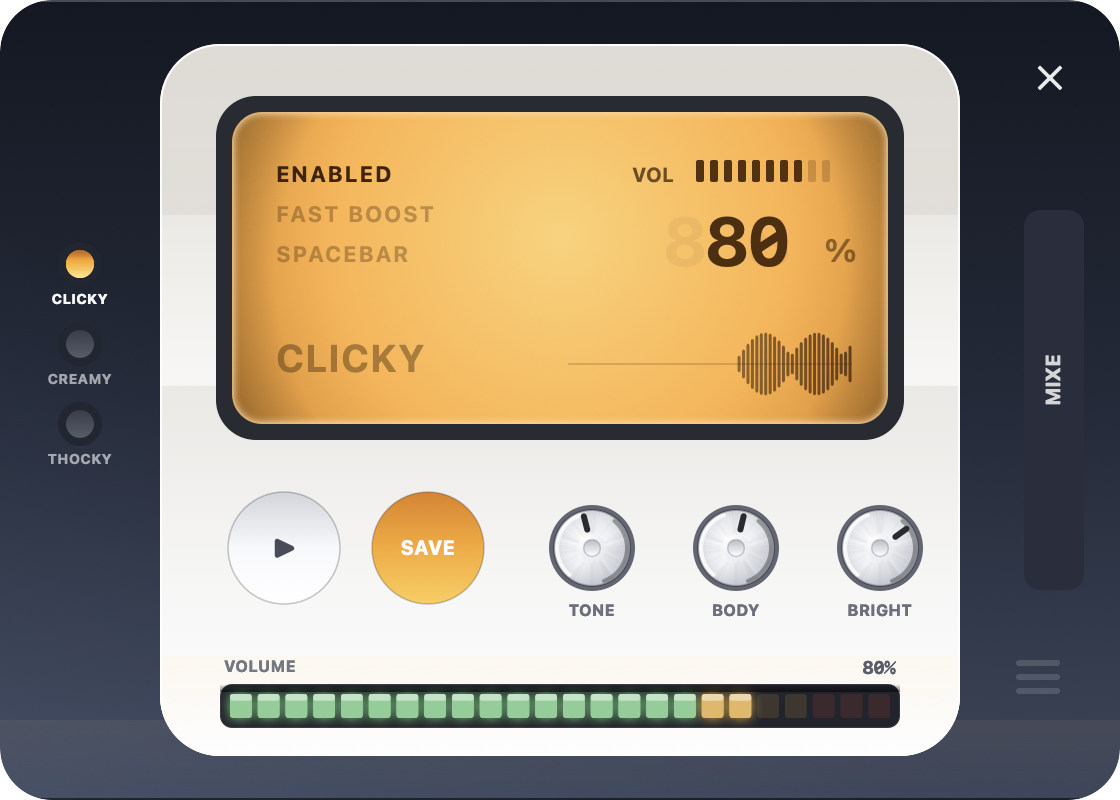
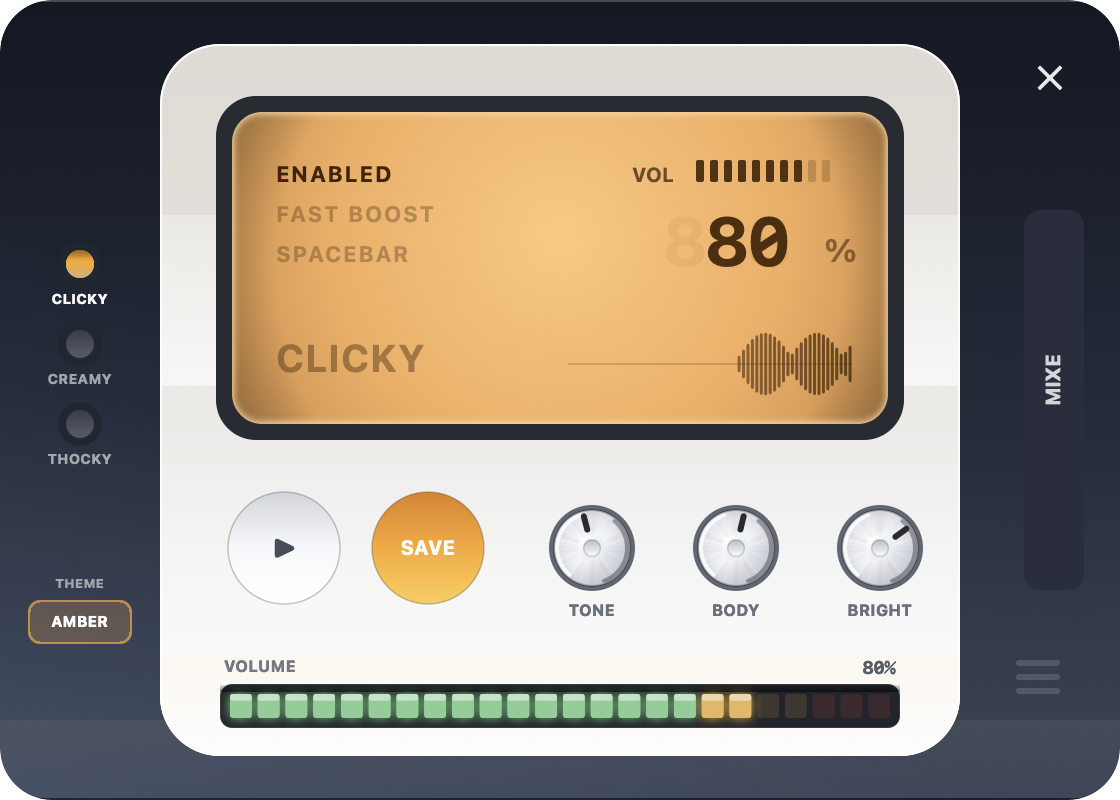
Add theme system and idle motion
Four full colour schemes — AMBER, ICE, PHOSPHOR, SYNTH — selectable from a
button on the chassis. A theme carries every tinted surface (backlight,
bezel light-leak, LED lamps, accent buttons, meter ramp, and the chassis
temperature itself), so switching restyles the whole instrument rather
than recolouring one element.

Idle motion via a single shared 30fps clock, so elements stay in phase:
- a soft band sweeping down the display, the cue that reads as 'powered on'
- a slow breath on the lit LED's glow radius and intensity
- the level meter already twitches per keystroke

The clock only runs while the panel is visible — a menu-bar app shouldn't
hold a 30fps timer open all day for a window nobody is looking at.

Theme swaps touch colours baked into cached bitmaps and layer-backed
views, so restyleForTheme walks the tree explicitly; invalidating only the
root would leave stale subviews behind.

KLACK_THEME=<name> selects a theme for headless renders, which is how all
four were verified.

Changed region(s): [[0.0, 0.7188, 0.125, 0.8125], [0.0625, 0.3125, 0.0938, 0.3438]]

diff --git a/Sources/Klack/PlasticSkinViews.swift b/Sources/Klack/PlasticSkinViews.swift
@@ -3,6 +3,137 @@ import Cocoa
 // V2 skin: dark chassis + glossy white plastic plate + backlit amber display.
 // All views are `isFlipped` so coordinates match the Figma reference directly.
 
+/// A full colour scheme for the panel. Everything tinted — backlight, LEDs,
+/// accents, meter ramp, even the chassis temperature — comes from here, so
+/// switching themes restyles the whole instrument rather than recolouring
+/// one element.
+struct Theme {
+    let name: String
+    let displayCore: NSColor
+    let displayMid: NSColor
+    let displayEdge: NSColor
+    let displayInk: NSColor
+    let bezelLeak: NSColor
+    let accentTop: NSColor
+    let accentMid: NSColor
+    let accentBottom: NSColor
+    let lampLit: NSColor
+    let chassisTop: NSColor
+    let chassisMid: NSColor
+    let chassisBottom: NSColor
+    /// Low → mid → hot stops for the level meter ladder.
+    let meterRamp: (NSColor, NSColor, NSColor)
+
+    static let amber = Theme(
+        name: "AMBER",
+        displayCore: NSColor(srgbRed: 1.00, green: 0.72, blue: 0.30, alpha: 1),
+        displayMid: NSColor(srgbRed: 0.94, green: 0.60, blue: 0.17, alpha: 1),
+        displayEdge: NSColor(srgbRed: 0.50, green: 0.26, blue: 0.05, alpha: 1),
+        displayInk: NSColor(srgbRed: 0.26, green: 0.13, blue: 0.01, alpha: 1),
+        bezelLeak: NSColor(srgbRed: 1.00, green: 0.85, blue: 0.63, alpha: 1),
+        accentTop: NSColor(srgbRed: 1.00, green: 0.80, blue: 0.32, alpha: 1),
+        accentMid: NSColor(srgbRed: 0.98, green: 0.66, blue: 0.16, alpha: 1),
+        accentBottom: NSColor(srgbRed: 0.88, green: 0.50, blue: 0.08, alpha: 1),
+        lampLit: NSColor(srgbRed: 0.99, green: 0.66, blue: 0.13, alpha: 1),
+        chassisTop: NSColor(srgbRed: 0.23, green: 0.27, blue: 0.35, alpha: 1),
+        chassisMid: NSColor(srgbRed: 0.13, green: 0.16, blue: 0.22, alpha: 1),
+        chassisBottom: NSColor(srgbRed: 0.07, green: 0.09, blue: 0.13, alpha: 1),
+        meterRamp: (NSColor(srgbRed: 0.42, green: 0.86, blue: 0.52, alpha: 1),
+                    NSColor(srgbRed: 0.99, green: 0.72, blue: 0.15, alpha: 1),
+                    NSColor(srgbRed: 0.95, green: 0.26, blue: 0.20, alpha: 1))
+    )
+
+    static let cyan = Theme(
+        name: "ICE",
+        displayCore: NSColor(srgbRed: 0.62, green: 0.94, blue: 1.00, alpha: 1),
+        displayMid: NSColor(srgbRed: 0.24, green: 0.72, blue: 0.90, alpha: 1),
+        displayEdge: NSColor(srgbRed: 0.03, green: 0.24, blue: 0.38, alpha: 1),
+        displayInk: NSColor(srgbRed: 0.02, green: 0.13, blue: 0.20, alpha: 1),
+        bezelLeak: NSColor(srgbRed: 0.72, green: 0.95, blue: 1.00, alpha: 1),
+        accentTop: NSColor(srgbRed: 0.48, green: 0.88, blue: 1.00, alpha: 1),
+        accentMid: NSColor(srgbRed: 0.16, green: 0.68, blue: 0.90, alpha: 1),
+        accentBottom: NSColor(srgbRed: 0.05, green: 0.46, blue: 0.68, alpha: 1),
+        lampLit: NSColor(srgbRed: 0.30, green: 0.80, blue: 1.00, alpha: 1),
+        chassisTop: NSColor(srgbRed: 0.20, green: 0.26, blue: 0.34, alpha: 1),
+        chassisMid: NSColor(srgbRed: 0.10, green: 0.15, blue: 0.21, alpha: 1),
+        chassisBottom: NSColor(srgbRed: 0.05, green: 0.08, blue: 0.12, alpha: 1),
+        meterRamp: (NSColor(srgbRed: 0.30, green: 0.78, blue: 0.98, alpha: 1),
+                    NSColor(srgbRed: 0.55, green: 0.92, blue: 1.00, alpha: 1),
+                    NSColor(srgbRed: 0.95, green: 0.98, blue: 1.00, alpha: 1))
+    )
+
+    static let phosphor = Theme(
+        name: "PHOSPHOR",
+        displayCore: NSColor(srgbRed: 0.62, green: 1.00, blue: 0.55, alpha: 1),
+        displayMid: NSColor(srgbRed: 0.28, green: 0.76, blue: 0.28, alpha: 1),
+        displayEdge: NSColor(srgbRed: 0.03, green: 0.22, blue: 0.06, alpha: 1),
+        displayInk: NSColor(srgbRed: 0.02, green: 0.14, blue: 0.03, alpha: 1),
+        bezelLeak: NSColor(srgbRed: 0.75, green: 1.00, blue: 0.70, alpha: 1),
+        accentTop: NSColor(srgbRed: 0.62, green: 0.98, blue: 0.52, alpha: 1),
+        accentMid: NSColor(srgbRed: 0.32, green: 0.80, blue: 0.30, alpha: 1),
+        accentBottom: NSColor(srgbRed: 0.16, green: 0.56, blue: 0.18, alpha: 1),
+        lampLit: NSColor(srgbRed: 0.44, green: 0.95, blue: 0.40, alpha: 1),
+        chassisTop: NSColor(srgbRed: 0.19, green: 0.24, blue: 0.21, alpha: 1),
+        chassisMid: NSColor(srgbRed: 0.10, green: 0.14, blue: 0.11, alpha: 1),
+        chassisBottom: NSColor(srgbRed: 0.05, green: 0.08, blue: 0.06, alpha: 1),
+        meterRamp: (NSColor(srgbRed: 0.34, green: 0.82, blue: 0.34, alpha: 1),
+                    NSColor(srgbRed: 0.62, green: 1.00, blue: 0.48, alpha: 1),
+                    NSColor(srgbRed: 0.92, green: 1.00, blue: 0.55, alpha: 1))
+    )
+
+    static let synthwave = Theme(
+        name: "SYNTH",
+        displayCore: NSColor(srgbRed: 1.00, green: 0.62, blue: 0.92, alpha: 1),
+        displayMid: NSColor(srgbRed: 0.82, green: 0.24, blue: 0.68, alpha: 1),
+        displayEdge: NSColor(srgbRed: 0.26, green: 0.04, blue: 0.30, alpha: 1),
+        displayInk: NSColor(srgbRed: 0.18, green: 0.02, blue: 0.20, alpha: 1),
+        bezelLeak: NSColor(srgbRed: 1.00, green: 0.72, blue: 0.95, alpha: 1),
+        accentTop: NSColor(srgbRed: 1.00, green: 0.55, blue: 0.85, alpha: 1),
+        accentMid: NSColor(srgbRed: 0.88, green: 0.24, blue: 0.66, alpha: 1),
+        accentBottom: NSColor(srgbRed: 0.58, green: 0.12, blue: 0.52, alpha: 1),
+        lampLit: NSColor(srgbRed: 1.00, green: 0.38, blue: 0.80, alpha: 1),
+        chassisTop: NSColor(srgbRed: 0.24, green: 0.20, blue: 0.36, alpha: 1),
+        chassisMid: NSColor(srgbRed: 0.13, green: 0.10, blue: 0.22, alpha: 1),
+        chassisBottom: NSColor(srgbRed: 0.07, green: 0.05, blue: 0.13, alpha: 1),
+        meterRamp: (NSColor(srgbRed: 0.42, green: 0.55, blue: 1.00, alpha: 1),
+                    NSColor(srgbRed: 0.85, green: 0.35, blue: 0.95, alpha: 1),
+                    NSColor(srgbRed: 1.00, green: 0.30, blue: 0.55, alpha: 1))
+    )
+
+    static let all: [Theme] = [.amber, .cyan, .phosphor, .synthwave]
+
+    /// Read by every view at draw time. Changing it and invalidating the view
+    /// tree restyles the whole panel.
+    static var current: Theme = .amber
+}
+
+/// Drives idle motion — a slow scanline sweep and a breathing pulse — so the
+/// panel reads as powered-on rather than as a static picture. One shared
+/// clock keeps every element in phase, and it only runs while visible.
+final class MotionClock {
+    static let shared = MotionClock()
+    private var timer: Timer?
+    private var subscribers: [() -> Void] = []
+    private(set) var phase: CGFloat = 0
+
+    func subscribe(_ block: @escaping () -> Void) { subscribers.append(block) }
+
+    func start() {
+        guard timer == nil else { return }
+        timer = Timer.scheduledTimer(withTimeInterval: 1.0 / 30.0, repeats: true) { [weak self] _ in
+            guard let self else { return }
+            self.phase += 1.0 / 30.0
+            for s in self.subscribers { s() }
+        }
+        if let t = timer { RunLoop.main.add(t, forMode: .common) }
+    }
+
+    func stop() {
+        timer?.invalidate()
+        timer = nil
+    }
+}
+
 enum Plastic {
     // White plastic is never neutral grey — the body runs cool at the
     // highlight and warm in shadow, which is what separates moulded plastic
@@ -77,7 +208,8 @@ final class ChassisView: NSView {
 
     override func draw(_ dirtyRect: NSRect) {
         let path = NSBezierPath(roundedRect: bounds, xRadius: 26, yRadius: 26)
-        Plastic.gradient([(0, Plastic.chassisTop), (0.5, Plastic.chassisMid), (1, Plastic.chassisBottom)])?
+        let th = Theme.current
+        Plastic.gradient([(0, th.chassisTop), (0.5, th.chassisMid), (1, th.chassisBottom)])?
             .draw(in: path, angle: -90)
 
         NSGraphicsContext.saveGraphicsState()
@@ -250,11 +382,15 @@ final class BacklitDisplayView: NSView {
         let b = min(0.18, backlightBoost)
         let centre = NSPoint(x: bounds.midX, y: bounds.height * 0.40)
         let radius = max(bounds.width, bounds.height) * 0.78
+        let th = Theme.current
+        func lift(_ c: NSColor, _ amount: CGFloat) -> NSColor {
+            c.blended(withFraction: amount, of: .white) ?? c
+        }
         Plastic.gradient([
-            (0.00, NSColor(srgbRed: min(1, 1.0 + b), green: min(1, 0.72 + b), blue: min(1, 0.30 + b * 1.4), alpha: 1)),
-            (0.45, NSColor(srgbRed: min(1, 0.94 + b), green: min(1, 0.60 + b), blue: min(1, 0.17 + b), alpha: 1)),
-            (0.80, NSColor(srgbRed: 0.77 + b * 0.5, green: 0.44 + b * 0.5, blue: 0.10, alpha: 1)),
-            (1.00, NSColor(srgbRed: 0.50 + b * 0.4, green: 0.26 + b * 0.3, blue: 0.05, alpha: 1)),
+            (0.00, lift(th.displayCore, b * 2.2)),
+            (0.45, lift(th.displayMid, b * 1.8)),
+            (0.80, lift(th.displayMid.blended(withFraction: 0.45, of: th.displayEdge) ?? th.displayMid, b)),
+            (1.00, lift(th.displayEdge, b * 0.6)),
         ])?.draw(fromCenter: centre, radius: 0, toCenter: centre, radius: radius, options: [])
 
         // (ii) Vignette, deliberately tighter than the bloom — the radius
@@ -267,6 +403,17 @@ final class BacklitDisplayView: NSView {
                  toCenter: NSPoint(x: bounds.midX, y: bounds.midY), radius: bounds.width * 0.62, options: [])
 
         drawContent()
+
+        // A soft band sweeping down the glass — the refresh cue that makes a
+        // display read as running rather than as a printed panel.
+        let sweepPeriod: CGFloat = 4.2
+        let sweepPos = MotionClock.shared.phase.truncatingRemainder(dividingBy: sweepPeriod) / sweepPeriod
+        let sweepY = sweepPos * (bounds.height + 60) - 30
+        Plastic.gradient([
+            (0, NSColor(white: 1, alpha: 0)),
+            (0.5, NSColor(white: 1, alpha: 0.10)),
+            (1, NSColor(white: 1, alpha: 0)),
+        ])?.draw(in: NSRect(x: 0, y: sweepY, width: bounds.width, height: 30), angle: -90)
 
         // (iv) Grain. Kept very faint and composited normally — `.overlay`
         // amplifies contrast against bright colours, which on amber turned
@@ -283,7 +430,7 @@ final class BacklitDisplayView: NSView {
         for (w, a) in [(1.0, 0.35), (2.0, 0.22), (3.0, 0.12), (4.0, 0.06)] {
             let leak = NSBezierPath(roundedRect: bounds.insetBy(dx: w / 2, dy: w / 2),
                                     xRadius: 15 - w / 2, yRadius: 15 - w / 2)
-            NSColor(srgbRed: 1.0, green: 0.85, blue: 0.63, alpha: CGFloat(a)).setStroke()
+            Theme.current.bezelLeak.withAlphaComponent(CGFloat(a)).setStroke()
             leak.lineWidth = CGFloat(w)
             leak.stroke()
         }
@@ -292,7 +439,7 @@ final class BacklitDisplayView: NSView {
     }
 
     private func drawContent() {
-        let ink = Plastic.displayInk
+        let ink = Theme.current.displayInk
 
         for (i, flag) in flags.enumerated() {
             let attrs: [NSAttributedString.Key: Any] = [
@@ -587,10 +734,11 @@ final class LevelMeterControl: NSControl {
 
     /// Colour ramp across the ladder — the last few segments run hot.
     private func colorForSegment(_ i: Int) -> NSColor {
+        let ramp = Theme.current.meterRamp
         let f = CGFloat(i) / CGFloat(segmentCount - 1)
-        if f > 0.88 { return NSColor(srgbRed: 0.95, green: 0.26, blue: 0.20, alpha: 1) }
-        if f > 0.70 { return NSColor(srgbRed: 0.99, green: 0.72, blue: 0.15, alpha: 1) }
-        return NSColor(srgbRed: 0.42, green: 0.86, blue: 0.52, alpha: 1)
+        if f > 0.88 { return ramp.2 }
+        if f > 0.70 { return ramp.1 }
+        return ramp.0
     }
 
     override func draw(_ dirtyRect: NSRect) {
@@ -684,10 +832,9 @@ final class RoundButton: NSButton {
         NSGraphicsContext.saveGraphicsState()
         path.addClip()
         if isAccent {
+            let th = Theme.current
             Plastic.gradient([
-                (0, NSColor(srgbRed: 1.00, green: 0.80, blue: 0.32, alpha: 1)),
-                (0.5, NSColor(srgbRed: 0.98, green: 0.66, blue: 0.16, alpha: 1)),
-                (1, NSColor(srgbRed: 0.88, green: 0.50, blue: 0.08, alpha: 1)),
+                (0, th.accentTop), (0.5, th.accentMid), (1, th.accentBottom),
             ])?.draw(in: rect, angle: pressed ? 90 : -90)
         } else {
             Plastic.gradient([
@@ -731,20 +878,23 @@ final class LEDLamp: NSControl {
 
         let inset = bounds.insetBy(dx: 4, dy: 4)
         let lamp = NSBezierPath(ovalIn: inset)
+        let th = Theme.current
+        // Slow breath so an idle panel still looks powered rather than frozen.
+        let breath = 0.75 + 0.25 * sin(MotionClock.shared.phase * 1.9)
         NSGraphicsContext.saveGraphicsState()
         if isLit {
             let glow = NSShadow()
-            glow.shadowColor = NSColor(srgbRed: 1, green: 0.62, blue: 0.12, alpha: 0.9)
+            glow.shadowColor = th.lampLit.withAlphaComponent(0.55 + 0.4 * breath)
             glow.shadowOffset = .zero
-            glow.shadowBlurRadius = 10
+            glow.shadowBlurRadius = 8 + 5 * breath
             glow.set()
         }
         lamp.addClip()
         if isLit {
             Plastic.gradient([
-                (0, NSColor(srgbRed: 1.0, green: 0.90, blue: 0.55, alpha: 1)),
-                (0.6, NSColor(srgbRed: 0.99, green: 0.66, blue: 0.13, alpha: 1)),
-                (1, NSColor(srgbRed: 0.75, green: 0.38, blue: 0.03, alpha: 1)),
+                (0, th.lampLit.highlight(withLevel: 0.55) ?? th.lampLit),
+                (0.6, th.lampLit),
+                (1, th.lampLit.shadow(withLevel: 0.45) ?? th.lampLit),
             ])?.draw(in: inset, angle: -90)
         } else {
             Plastic.gradient([
@@ -759,9 +909,9 @@ final class LEDLamp: NSControl {
             NSGraphicsContext.saveGraphicsState()
             lamp.addClip()
             Plastic.gradient([
-                (0, NSColor(srgbRed: 1.0, green: 0.90, blue: 0.55, alpha: 1)),
-                (0.6, NSColor(srgbRed: 0.99, green: 0.66, blue: 0.13, alpha: 1)),
-                (1, NSColor(srgbRed: 0.75, green: 0.38, blue: 0.03, alpha: 1)),
+                (0, th.lampLit.highlight(withLevel: 0.55) ?? th.lampLit),
+                (0.6, th.lampLit),
+                (1, th.lampLit.shadow(withLevel: 0.45) ?? th.lampLit),
             ])?.draw(in: inset, angle: -90)
             NSGraphicsContext.restoreGraphicsState()
         }

diff --git a/Sources/Klack/ShowcaseWindowController.swift b/Sources/Klack/ShowcaseWindowController.swift
@@ -23,6 +23,9 @@ final class ShowcaseWindowController: NSWindowController, NSWindowDelegate {
     private var backlightDecay: Timer?
     private var isBoosting = false
     private var lastWasSpace = false
+    private var themeButton: NSButton!
+    private var themeIndex = 0
+    private var idleMotionRunning = false
 
     private let chassisW: CGFloat = 560
     private let chassisH: CGFloat = 400
@@ -82,6 +85,8 @@ final class ShowcaseWindowController: NSWindowController, NSWindowDelegate {
         NSApp.setActivationPolicy(.accessory)
         backlightDecay?.invalidate()
         backlightDecay = nil
+        MotionClock.shared.stop()
+        idleMotionRunning = false
         onClosed?()
     }
 
@@ -126,6 +131,23 @@ final class ShowcaseWindowController: NSWindowController, NSWindowDelegate {
         NSApp.activate(ignoringOtherApps: true)
         window?.makeKeyAndOrderFront(nil)
         refreshDisplay()
+        startIdleMotion()
+    }
+
+    /// Idle motion runs only while the panel is on screen — a menu-bar app
+    /// shouldn't hold a 30fps timer open all day for a window nobody's looking
+    /// at.
+    private func startIdleMotion() {
+        guard !idleMotionRunning else { return }
+        idleMotionRunning = true
+        MotionClock.shared.subscribe { [weak self] in
+            guard let self, self.window?.isVisible == true else { return }
+            self.display.needsDisplay = true
+            for entry in self.lamps where entry.lamp.isLit {
+                entry.lamp.needsDisplay = true
+            }
+        }
+        MotionClock.shared.start()
     }
 
     // MARK: Build
@@ -226,6 +248,25 @@ final class ShowcaseWindowController: NSWindowController, NSWindowDelegate {
             ridge.layer?.cornerRadius = 1.5
             chassis.addSubview(ridge)
         }
+
+        // Theme selector, bottom-left of the chassis under the lamp stack.
+        themeButton = NSButton(frame: NSRect(x: 14, y: 300, width: 52, height: 22))
+        themeButton.isBordered = false
+        themeButton.wantsLayer = true
+        themeButton.layer?.cornerRadius = 6
+        themeButton.layer?.borderWidth = 1
+        themeButton.target = self
+        themeButton.action = #selector(cycleTheme)
+        chassis.addSubview(themeButton)
+
+        let themeCaption = NSTextField(labelWithString: "THEME")
+        themeCaption.font = .systemFont(ofSize: 6.5, weight: .bold)
+        themeCaption.textColor = NSColor(white: 1, alpha: 0.32)
+        themeCaption.alignment = .center
+        themeCaption.backgroundColor = .clear
+        themeCaption.frame = NSRect(x: 14, y: 288, width: 52, height: 9)
+        chassis.addSubview(themeCaption)
+        styleThemeButton()
     }
 
     private func buildDisplay(into plate: NSView) {
@@ -400,6 +441,41 @@ final class ShowcaseWindowController: NSWindowController, NSWindowDelegate {
     // MARK: Actions
 
     @objc private func closeWindow() { window?.close() }
+
+    private func styleThemeButton() {
+        let th = Theme.current
+        themeButton.attributedTitle = NSAttributedString(string: th.name, attributes: [
+            .font: NSFont.systemFont(ofSize: 7.5, weight: .bold),
+            .foregroundColor: NSColor(white: 1, alpha: 0.85),
+        ])
+        themeButton.layer?.backgroundColor = th.accentMid.withAlphaComponent(0.22).cgColor
+        themeButton.layer?.borderColor = th.accentMid.withAlphaComponent(0.65).cgColor
+    }
+
+    @objc private func cycleTheme() {
+        themeIndex = (themeIndex + 1) % Theme.all.count
+        Theme.current = Theme.all[themeIndex]
+        styleThemeButton()
+        restyleForTheme()
+    }
+
+    /// A theme swap touches colours drawn deep inside cached bitmaps and
+    /// layer-backed views, so everything has to be invalidated explicitly —
+    /// marking only the root would leave stale subviews behind.
+    private func restyleForTheme() {
+        guard let root = window?.contentView else { return }
+        func invalidate(_ v: NSView) {
+            v.needsDisplay = true
+            v.subviews.forEach(invalidate)
+        }
+        invalidate(root)
+
+        for entry in lamps {
+            entry.label.textColor = NSColor(white: 1, alpha: entry.lamp.isLit ? 0.85 : 0.35)
+        }
+        display.layer?.shadowColor = Theme.current.displayMid.cgColor
+        refreshDisplay()
+    }
 
     @objc private func selectPack(_ sender: LEDLamp) {
         guard let name = sender.identifier?.rawValue,

diff --git a/Sources/Klack/main.swift b/Sources/Klack/main.swift
@@ -52,6 +52,13 @@ if let outPath = ProcessInfo.processInfo.environment["KLACK_RENDER_TEST"] {
     let resourceDir = Bundle.main.resourceURL ?? Bundle.main.bundleURL
     let engine = ClickAudioEngine(resourceDirectory: resourceDir)
     let tap = KeyTapManager()
+
+    // Pick a theme up front so each one can be captured for review.
+    if let themeName = ProcessInfo.processInfo.environment["KLACK_THEME"],
+       let match = Theme.all.first(where: { $0.name.caseInsensitiveCompare(themeName) == .orderedSame }) {
+        Theme.current = match
+    }
+
     let controller = ShowcaseWindowController(audioEngine: engine, keyTap: tap)
 
     if ProcessInfo.processInfo.environment["KLACK_RENDER_MIXER"] != nil {
